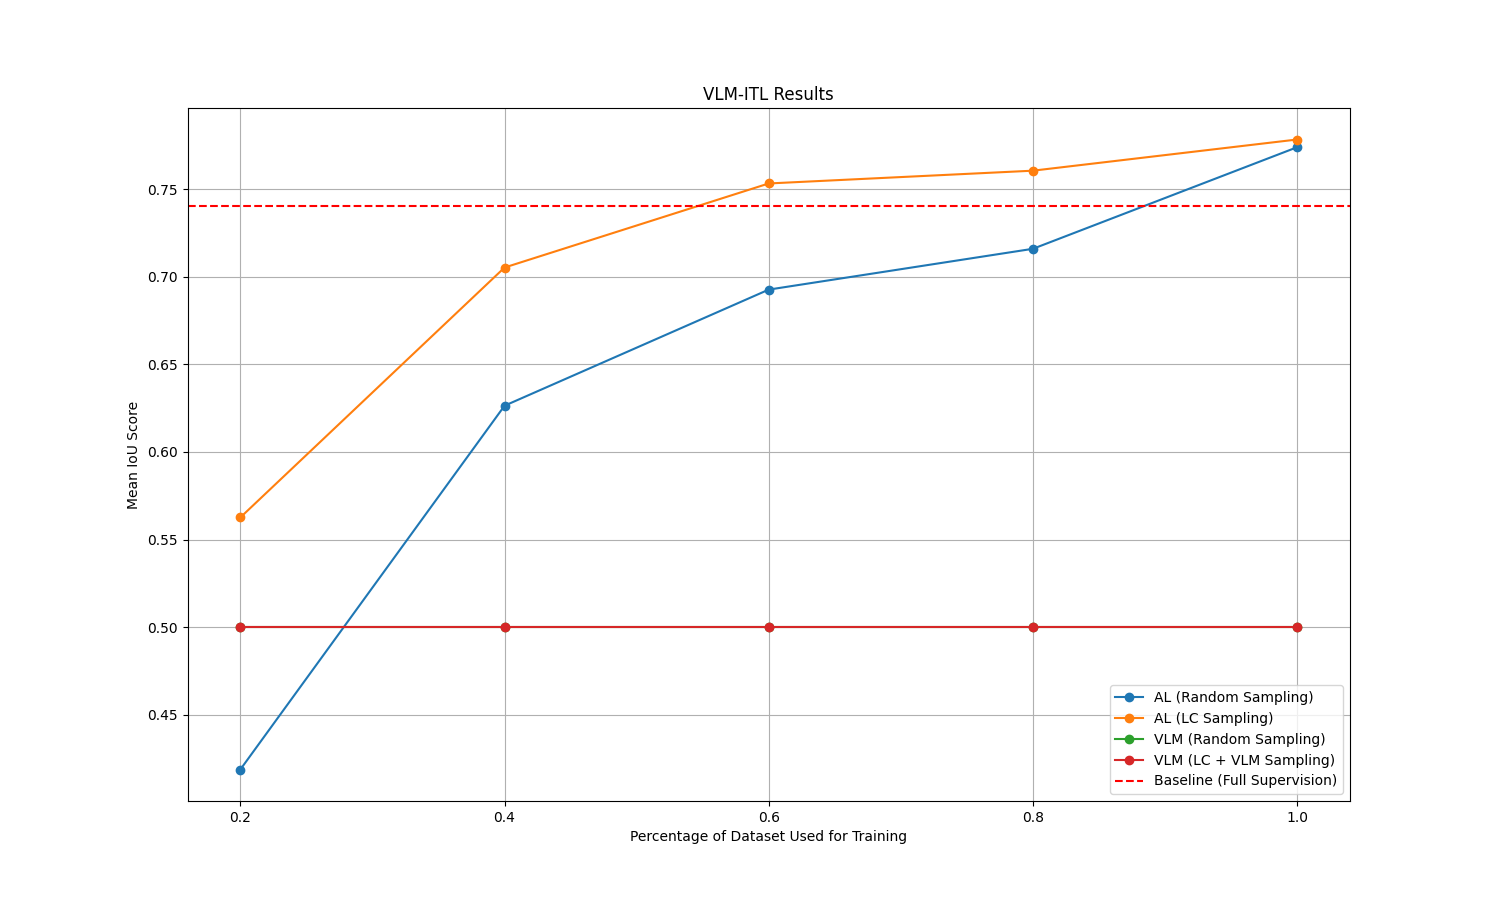
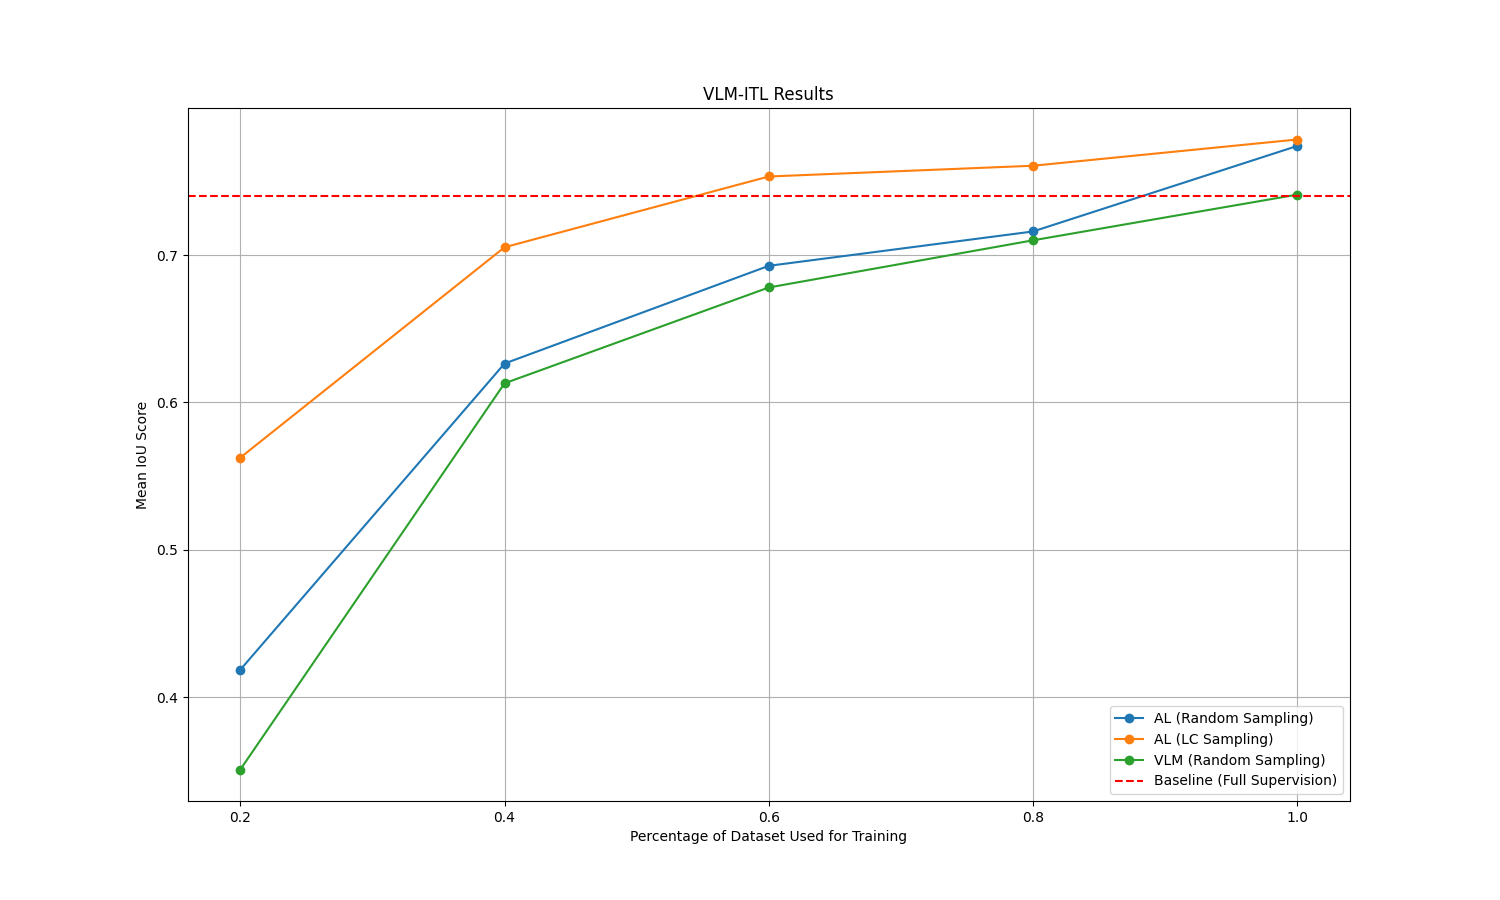
fix: fixed label issues for submission

diff --git a/scripts/train_vlm_itl.py b/scripts/train_vlm_itl.py
@@ -321,7 +321,7 @@ def run_vlm_itl_pipeline(config_path: str):
                 )
                 # collect those the VLM “agrees” on
                 for idx, fb in zip(batch_idxs, feedback):
-                    if fb["vlm_agrees_with_gt"]:
+                    if fb["vlm_agrees_with_gt"] and fb["is_segmentation_correct"]:
                         accepted.append(idx)
                     else:
                         rejected.append(idx)
@@ -333,37 +333,7 @@ def run_vlm_itl_pipeline(config_path: str):
             
             for idx in accepted:
                 pseudo_labels[idx] = model_segmentations[idx]
-            
-            # num_skipped = 0
-            # logger.info(f"Pseudo-labels added for {len(pseudo_labels)} samples.")
-            # for idx, small_mask in pseudo_labels.items():
-            #     # replace the mask in the dataset
-            #     if idx in full_train_data:
-            #         # 1) fetch the original mask (PIL Image) to get its size
-            #         orig_pil = full_train_data[idx][config['dataset']['mask_col']]           # <— PIL.Image
-            #         W, H    = orig_pil.size                            # width, height
 
-            #         # 2) make a PIL from your numpy mask, then resize with NEAREST
-            #         small_pil = Image.fromarray(np.uint8(small_mask))  # 128×128
-            #         # ensure small_pil has same mode as orig_pil
-            #         if small_pil.mode != orig_pil.mode:
-            #             logger.warning(f"Mode mismatch: {small_pil.mode} vs {orig_pil.mode}. Converting...")
-            #             small_pil = small_pil.convert(orig_pil.mode)
-            #         large_pil = small_pil.resize((W, H), Image.NEAREST)
-
-            #         # 3) overwrite exactly that example’s mask
-            #         full_train_data[idx][config['dataset']['mask_col']] = large_pil
-                    
-            #         if idx == accepted[0]:
-            #             logger.info(f"First pseudo-label replacement: ({idx}) {small_pil.size} -> {large_pil.size} ({orig_pil.size})")
-            #         if idx == accepted[-1]:
-            #             logger.info(f"Last pseudo-label replacement: ({idx}) {small_pil.size} -> {large_pil.size} ({orig_pil.size})")
-            #         # 4) remove from pseudo-labels dict
-            #         del pseudo_labels[idx]
-            #     else:
-            #         num_skipped += 1
-            #         logger.warning(f"Index {idx} not found in full_train_data, skipping replacement.")
-            # logger.warning(f"Skipped {num_skipped}/{len(accepted)} pseudo-label replacements.")
             remaining_indices = [idx for idx in remaining_indices if idx not in accepted]
 
             def _inject_pseudo_processed(example, idx):
@@ -373,7 +343,7 @@ def run_vlm_itl_pipeline(config_path: str):
                     small = pseudo_labels[idx]            # numpy [h_small, w_small]
                     t = torch.from_numpy(small).unsqueeze(0).unsqueeze(0).float()
                     up = F.interpolate(t, size=(target_h, target_w), mode="nearest")
-                    return {"labels": up.squeeze().cpu().numpy().astype(np.uint8)}
+                    return {"labels": up.squeeze().cpu().numpy().astype(np.int64)}
                 return {}
 
             processed_full_train = processed_full_train.map(
@@ -438,7 +408,7 @@ def run_vlm_itl_pipeline(config_path: str):
             weight_decay=float(config['training']['weight_decay']),
 
             # strings
-            evaluation_strategy=str(config['training']['evaluation_strategy']),
+            eval_strategy=str(config['training']['evaluation_strategy']),
             save_strategy=str(config['training']['save_strategy']),
             metric_for_best_model=str(config['training']['metric_for_best_model']),
 

diff --git a/utils/active_learning.py b/utils/active_learning.py
@@ -7,6 +7,7 @@ import torch
 import torch.nn.functional as F
 import numpy as np
 import wandb
+from tqdm import tqdm
 from torch.utils.data import DataLoader
 from sklearn.metrics import pairwise_distances
 from datasets import Dataset, concatenate_datasets
@@ -36,16 +37,6 @@ def compute_image_uncertainties(
     """
     model.to(device)
     model.eval()
-
-    # # select and preprocess same as before…
-    # processed = dataset.select(remaining_indices)
-
-    # dl = DataLoader(
-    #     processed, batch_size=batch_size, shuffle=False,
-    #     collate_fn=lambda batch: {
-    #         k: torch.stack([d[k] for d in batch]) for k in batch[0]
-    #     }
-    # )
     
     raw_subset = dataset.select(remaining_indices)
     raw_subset = raw_subset.add_column("__orig_idx__", remaining_indices)
@@ -60,15 +51,16 @@ def compute_image_uncertainties(
         idxs = torch.tensor([item['__orig_idx__'] for item in batch], dtype=torch.long)
         return {"pixel_values": pix, "__orig_idx__": idxs}
 
-    dl = DataLoader(raw_subset, batch_size=batch_size, shuffle=False, collate_fn=collate_fn)
+    dl = DataLoader(
+        raw_subset, 
+        batch_size=batch_size, 
+        shuffle=False, 
+        collate_fn=collate_fn
+    )
     uncertainties: Dict[int, float] = {}
     model_segmentations: Dict[int, np.ndarray] = {}
     with torch.no_grad():
-        # for batch_idx, batch in enumerate(dl):
-        #     pix    = batch["pixel_values"].to(device)   # [B,3,H,W]
-        #     logits = model(pix).logits                  # [B,C,H,W]
-        #     probs  = F.softmax(logits, dim=1)           # [B,C,H,W]
-        for batch in dl:
+        for batch in tqdm(dl, desc="Computing uncertainties", total=len(dl)):
             pix       = batch["pixel_values"].to(device)   # [B,3,H,W]
             orig_idxs = batch["__orig_idx__"].tolist()     # [B]
             logits    = model(pix).logits                  # [B,C,H,W]
@@ -78,8 +70,6 @@ def compute_image_uncertainties(
             ent    = -(probs * torch.log(probs + 1e-12)).sum(dim=1)  # [B,H,W]
             img_e  = ent.view(ent.size(0), -1).mean(dim=1)           # [B]
 
-            # for i, score in enumerate(img_e.cpu().tolist()):
-            #     orig_idx = remaining_indices[batch_idx * batch_size + i]
             for i, score in enumerate(img_e.cpu().tolist()):
                 orig_idx = orig_idxs[i]
                 uncertainties[orig_idx] = score

diff --git a/utils/plot_results.py b/utils/plot_results.py
@@ -15,15 +15,15 @@ def plot_results(save_path: str = None) -> None:
     baseline_result = np.float16(0.740)
     al_results_rand = np.array([0.4187, 0.6264, 0.6927, 0.716, 0.774])
     al_results_lc = np.array([0.5626, 0.7053, 0.7533, 0.7606, 0.7784])
-    vlm_results_rand = np.array([0.5, 0.5, 0.5, 0.5, 0.5])
-    vlm_results_lc = np.array([0.5, 0.5, 0.5, 0.5, 0.5])
+    vlm_results_rand = np.array([0.351, 0.613, 0.678, 0.710, 0.741])
+    # vlm_results_lc = np.array([0.5, 0.5, 0.5, 0.5, 0.5])
     x_axis = np.arange(0.2, 1.0, 0.2)
     x_axis = np.concatenate((x_axis, [1.0]))
     plt.figure(figsize=(15, 9))
     plt.plot(x_axis, al_results_rand, marker='o', label='AL (Random Sampling)')
     plt.plot(x_axis, al_results_lc, marker='o', label='AL (LC Sampling)')
     plt.plot(x_axis, vlm_results_rand, marker='o', label='VLM (Random Sampling)')
-    plt.plot(x_axis, vlm_results_lc, marker='o', label='VLM (LC + VLM Sampling)')
+    # plt.plot(x_axis, vlm_results_lc, marker='o', label='VLM (LC + VLM Sampling)')
     plt.axhline(baseline_result, color='r', linestyle='--', label='Baseline (Full Supervision)')
     plt.xticks(x_axis)
     plt.xlabel('Percentage of Dataset Used for Training')
